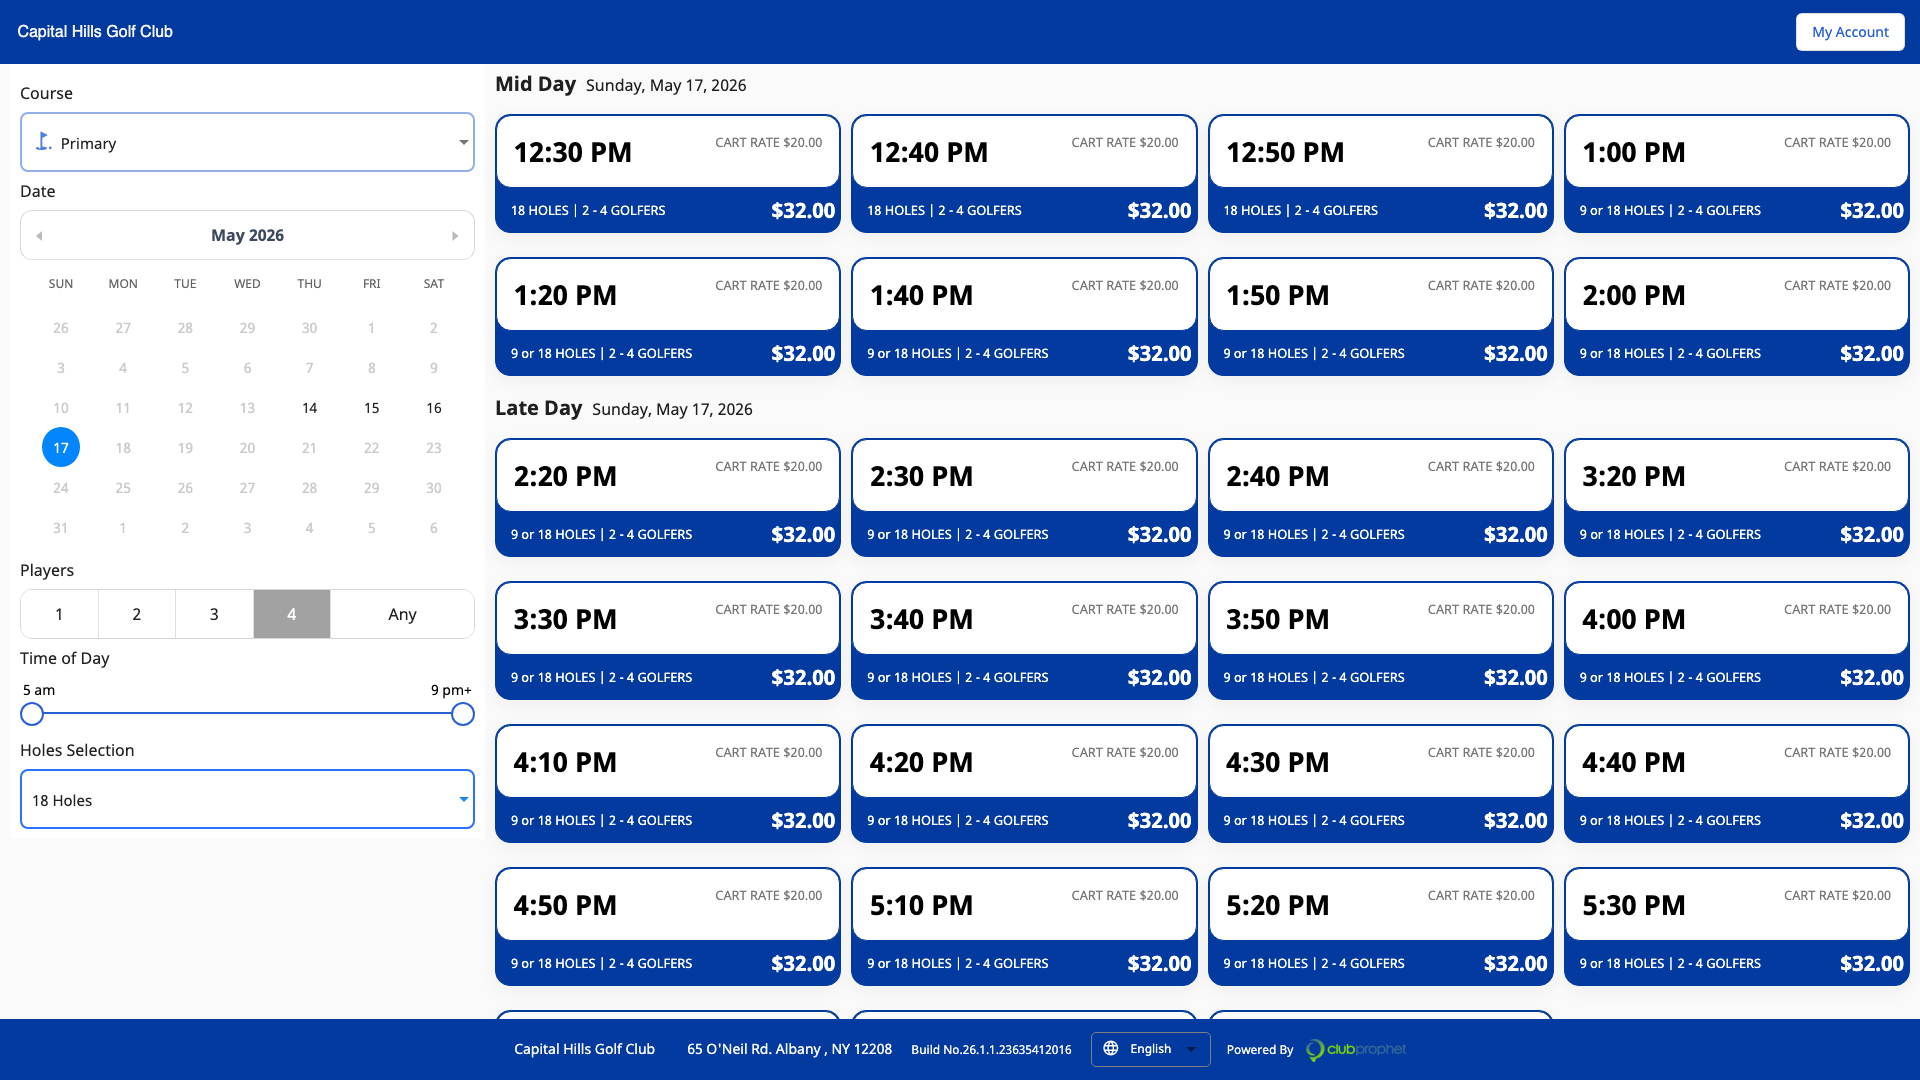
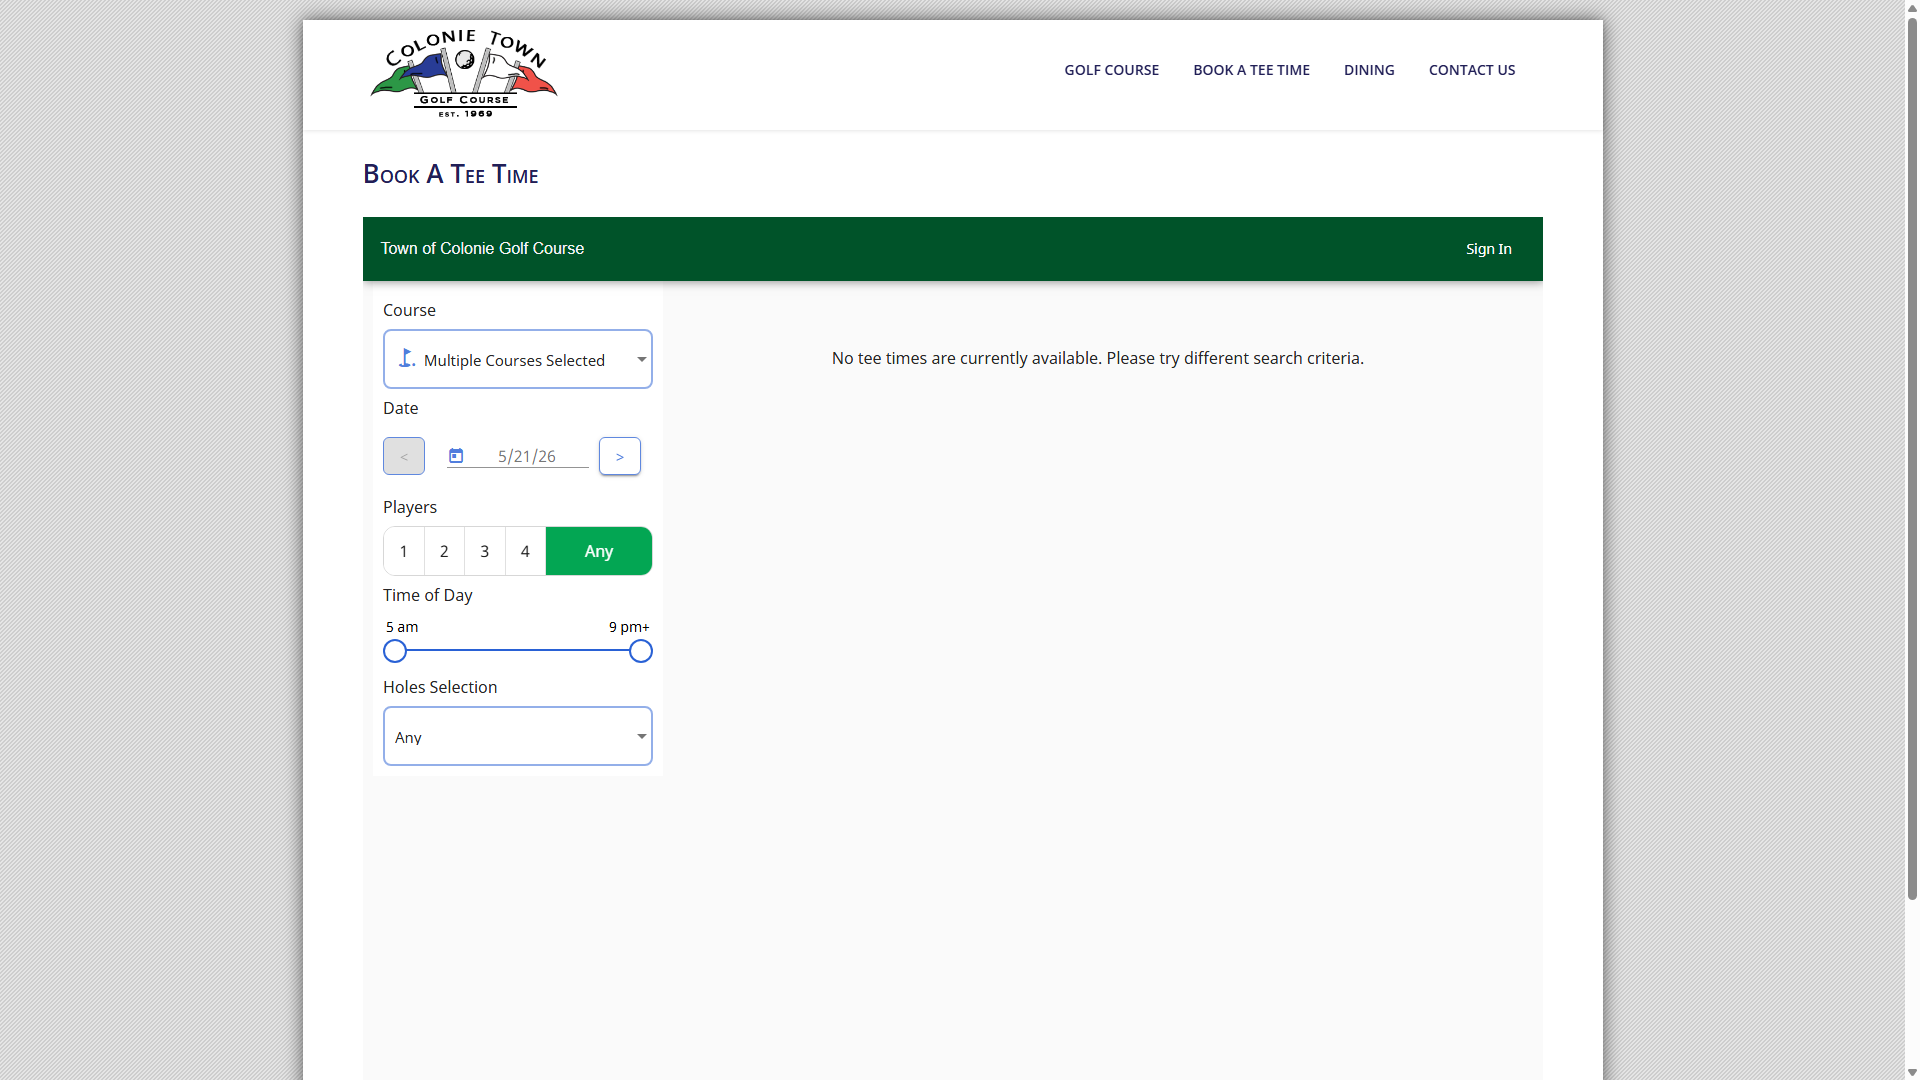
Town of Colonie success headless

diff --git a/backend/playwright_logic.py b/backend/playwright_logic.py
@@ -566,3 +566,179 @@ def book_via_eagleclub(url, booking, email, password, card_number=None, card_exp
             raise
         finally:
             browser.close()
+
+# ---------------------------------------------------------------------------
+# Town of Colonie
+# ---------------------------------------------------------------------------
+
+def book_town_of_colonie(url, booking, email, password, dry_run=False, headless=True):
+    """Verified flow for Town of Colonie."""
+    with Stealth().use_sync(sync_playwright()) as p:
+        browser, context = _new_stealth_context(p, headless=headless)
+        page = context.new_page()
+        try:
+            logging.info("Navigating to Town of Colonie URL: %s", url)
+            page.goto(url, wait_until='networkidle')
+
+            frame_locator = page.get_by_role('main', name='Main content').locator('iframe[title="Embedded content"]').content_frame
+
+            # --- Auth ---
+            logging.info("Starting authentication.")
+            frame_locator.get_by_role('button', name='Sign In').click()
+            
+            email_field = frame_locator.get_by_role('textbox', name='Email')
+            email_field.wait_for(state='visible', timeout=10000)
+            email_field.click()
+            email_field.fill(email)
+            frame_locator.get_by_role('button', name='NEXT').click()
+            
+            pass_field = frame_locator.get_by_role('textbox', name='Password')
+            pass_field.wait_for(state='visible', timeout=10000)
+            pass_field.fill(password)
+            frame_locator.get_by_role('button', name='SIGN IN', exact=True).click()
+            
+            logging.info("Sign-in button clicked. Waiting for dashboard to load.")
+            page.wait_for_timeout(5000)
+
+            # --- Navigate date ---
+            logging.info("Navigating to target date: %s", booking.desired_date)
+            try:
+                date_input = frame_locator.locator('input[formcontrolname="date"], input.mat-datepicker-input, input[aria-haspopup="dialog"]').first
+                if not date_input.is_visible():
+                    date_input = frame_locator.get_by_role('textbox').nth(0) 
+
+                date_input.click()
+                page.wait_for_timeout(1000)
+                
+                day_str = str(booking.desired_date.day)
+                
+                # Fetch all exact matches for the day string
+                day_buttons = frame_locator.get_by_text(day_str, exact=True).all()
+                clicked = False
+                
+                for btn in day_buttons:
+                    try:
+                        if btn.is_visible():
+                            btn.click(force=True)
+                            clicked = True
+                            break
+                    except Exception:
+                        pass
+                
+                if not clicked:
+                    logging.warning(f"No strictly visible day {day_str} found. Trying force click inside dialog.")
+                    dialog_btn = frame_locator.locator('[id^="mat-dialog-"], .cdk-overlay-container').get_by_text(day_str, exact=True).first
+                    dialog_btn.click(force=True, timeout=3000)
+                
+                logging.info(f"Clicked day {day_str} directly.")
+                page.wait_for_timeout(2000)
+            except Exception as e:
+                logging.warning(f"Could not select date via dialog: {e}")
+
+            # --- Expand all time sections ---
+            logging.info("Expanding morning and mid day tee times.")
+            page.wait_for_timeout(1500)
+            morning_btn = frame_locator.get_by_role('button', name='Show more Morning tee times')
+            if morning_btn.is_visible():
+                morning_btn.click()
+            
+            mid_day_btn = frame_locator.get_by_role('button', name='Show more Mid Day tee times')
+            if mid_day_btn.is_visible():
+                mid_day_btn.click()
+
+            # --- Players & Holes ---
+            logging.info("Selecting %d players and 18 holes.", booking.players)
+            page.wait_for_timeout(2000)
+            try:
+                frame_locator.get_by_role('button', name=str(booking.players), exact=True).click()
+                page.wait_for_timeout(1500)
+
+                logging.info("Opening holes dropdown.")
+                # Try finding by label first
+                dropdown_arrow = frame_locator.locator('mat-select[aria-label*="Holes"], mat-select[aria-label*="holes"]').first
+
+                if not dropdown_arrow.is_visible():
+                    # Fallback: Course is usually the 1st dropdown, Holes is the 2nd
+                    dropdown_arrow = frame_locator.locator('mat-select').nth(1)
+
+                if not dropdown_arrow.is_visible():
+                    # Final fallback: click the last arrow wrapper on the page
+                    dropdown_arrow = frame_locator.locator('.mat-select-arrow-wrapper').last
+
+                dropdown_arrow.wait_for(state='visible', timeout=5000)
+                dropdown_arrow.click(force=True)
+                page.wait_for_timeout(1000)
+
+                logging.info("Selecting '18 Holes'.")
+                frame_locator.get_by_text('18 Holes', exact=True).first.click()
+                page.wait_for_timeout(3000)
+            except Exception as e:
+                logging.warning("Failed to set players/holes: %s", e)
+
+            # --- Find tee time in window ---
+            logging.info("Searching for tee time between %s and %s.", booking.earliest_time, booking.latest_time)
+            earliest = parse_time(booking.desired_date, booking.earliest_time)
+            latest = parse_time(booking.desired_date, booking.latest_time)
+            
+            all_buttons = frame_locator.locator('button').filter(has_text=re.compile(r'\d{1,2}:\d{2}', re.I)).all()
+            booking_element = None
+            best_time_str = ''
+
+            for btn in all_buttons:
+                txt = btn.inner_text().strip()
+                m = re.search(r'(\d{1,2}:\d{2})\s*([AP])\s*M?', txt, re.IGNORECASE)
+                if m:
+                    time_part = m.group(1)
+                    ampm = m.group(2).upper() + "M"
+                    ts = f"{time_part}{ampm}"
+                    try:
+                        avail = datetime.strptime(f"{booking.desired_date.strftime('%Y-%m-%d')} {ts}", '%Y-%m-%d %I:%M%p')
+                        if earliest <= avail <= latest:
+                            booking_element = btn
+                            best_time_str = ts
+                            logging.info("Found matching tee time: %s", best_time_str)
+                            break
+                    except ValueError:
+                        continue
+
+            if not booking_element:
+                raise Exception(f'No tee time found between {booking.earliest_time} and {booking.latest_time}')
+
+            if dry_run:
+                return f'Dry run success at {best_time_str}'
+
+            # --- Book & Finalize ---
+            logging.info("Attempting to book tee time: %s", best_time_str)
+            try:
+                booking_element.scroll_into_view_if_needed()
+                booking_element.click()
+            except Exception as e:
+                logging.warning(f"Failed to click tee time slot: {e}")
+                
+            logging.info("Looking for 'Next' button")
+            next_btn = frame_locator.get_by_role('button', name='Next')
+            try:
+                next_btn.wait_for(state='visible', timeout=20000)
+                next_btn.click()
+            except PlaywrightTimeoutError:
+                logging.warning("Could not find/click 'Next' button, continuing to Finalize.")
+
+            logging.info("Waiting for 'Finalize Reservation' button")
+            finalize_btn = frame_locator.get_by_role('button', name='Finalize Reservation')
+            finalize_btn.wait_for(state='visible', timeout=20000)
+            finalize_btn.click()
+
+            logging.info("Waiting for 'Return to Tee Times' button")
+            return_btn = frame_locator.get_by_role('button', name='Return to Tee Times')
+            return_btn.wait_for(state='visible', timeout=20000)
+            return_btn.click()
+
+            return f'Success! Booked {best_time_str}'
+
+        except Exception as e:
+            logging.error("An error occurred in book_town_of_colonie: %s", e, exc_info=True)
+            page.screenshot(path=os.path.join(SCREENSHOT_DIR, 'town_of_colonie_error.png'))
+            raise
+        finally:
+            browser.close()
+

diff --git a/backend/main.py b/backend/main.py
@@ -89,6 +89,23 @@ async def create_booking(request: BookingRequest):
         print(f"Firestore error: {e}")
         raise HTTPException(status_code=500, detail="Failed to save booking request")
 
[email redacted]("/api/bookings/{job_id}")
+async def delete_booking(job_id: str, passcode: str = ""):
+    EXPECTED_PASSCODE = os.getenv("APP_PASSCODE", "golf2026")
+    if passcode != EXPECTED_PASSCODE:
+        raise HTTPException(status_code=401, detail="Unauthorized")
+    
+    if not db:
+        raise HTTPException(status_code=500, detail="Database connection not available")
+    
+    try:
+        doc_ref = db.collection('tee_time_jobs').document(job_id)
+        doc_ref.delete()
+        return {"status": "success", "message": f"Job {job_id} deleted."}
+    except Exception as e:
+        print(f"Delete error: {e}")
+        raise HTTPException(status_code=500, detail="Failed to delete job")
+
 # Exception handler for serving the React SPA (catch-all for frontend routing)
 @app.exception_handler(404)
 async def custom_404_handler(request: Request, exc: HTTPException):

diff --git a/backend/replicate_playwright.py b/backend/replicate_playwright.py
@@ -13,7 +13,7 @@ EARLIEST_TIME = "09:00:00"
 LATEST_TIME = "20:00:00"
 PLAYERS = 4
 DRY_RUN = False  # Set to False to actually attempt booking
-HEADLESS = False  # Set to True for hidden browser, False to see what is happening
+HEADLESS = True  # Set to True for hidden browser, False to see what is happening
 
 # Credentials (Use .env or hardcode for local debug only)
 # IMPORTANT: For local debugging only. Do not commit credentials.
@@ -55,7 +55,7 @@ COURSE_HANDLERS = {
     },
     "town_of_colonie": {
         "url": "https://www.townofcolonie.gov/departments/parksandrec/golfcourse/book-teetime",
-        "func": playwright_logic.book_cps_golf,
+        "func": playwright_logic.book_town_of_colonie,
     },
     "van_patten": {
         "url": "https://foreupsoftware.com/index.php/booking/19765/2544",